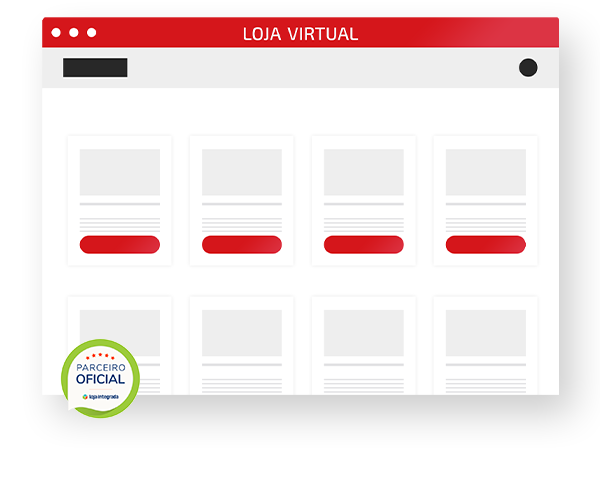
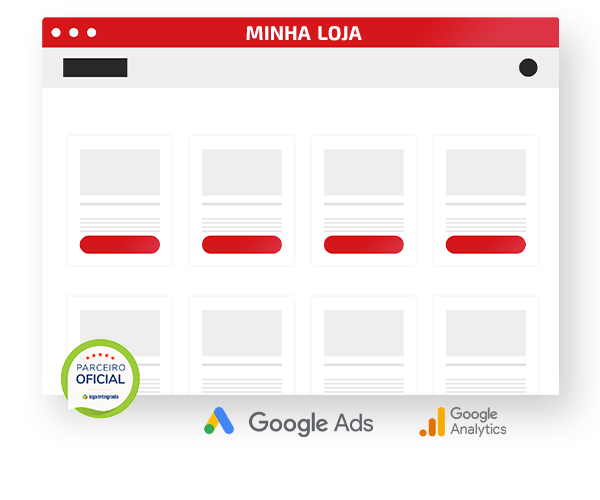
novo 03.05 20:31

diff --git a/src/app/components/pages/home-one/home-one.component.html b/src/app/components/pages/home-one/home-one.component.html
@@ -1,3 +1,4 @@
+<!--Banner Principal-->
 <div class="main-banner">
     <div class="d-table">
         <div class="d-table-cell">
@@ -5,9 +6,11 @@
                 <div class="row">
                     <div class="col-lg-7 col-md-12">
                         <div class="hero-content">
-                            <h1 style="color: #494f65;">Startup em marketing digital, consultoria e implementações
-                                em T.I.</h1>
-                            <p>Tudo o que você precisa em marketing digital e para redes sociais , design gráfico,
+                            <h1 style="color: #494f65;">Startup em <span>marketing</span> digital,
+                                <span>consultoria</span> e implementações em <span> T.I.</span>
+                            </h1>
+                            <p>Tudo o que você precisa em marketing digital e para redes sociais , design
+                                gráfico,
                                 consultoria e implementações em tecnologia para sua empresa.</p>
                             <!--<a routerLink="/contato" class="btn btn-primary">Vamos Começar</a>-->
                             <!--<a href="https://www.youtube.com/watch?v=bk7McNUjWgw" class="video-btn">Assistir<i
@@ -39,7 +42,83 @@
     <div class="circle-pattern-1"></div>
 </div>
 
-<section class="working-process-area ptb-100 bg-fbf9f8">
+<!--Loja Online-->
+<section class="analysis-area ptb-100 bg ptb-100">
+    <div class="container">
+        <div class="row align-items-center">
+            <div class="hero-image">
+                <img src="assets/img/hero-img.png" alt="hero-img">
+            </div>
+
+            <div class="col-lg-6 col-md-12 doido">
+                <div class="analysis-text">
+                    <span>Loja Online</span>
+                    <h3>Que tal vender seus <strong style="color: #d5161a;">produtos</strong> ou <strong
+                            style="color: #d5161a;">cursos</strong> online?</h3>
+                    <p>Preencha o formulário que retornamos para você de forma rápida e com uma análise grátis do seu
+                        site:</p>
+                    <ul>
+                        <li><i class="icofont-verification-check" style=" color:#e12e32; margin-right: 8px;"></i>Vamos
+                            análisar como está o
+                            design do
+                            seu site. Se está bem desenvolvido visualmente.</li>
+                        <li><i class="icofont-verification-check" style=" color:#e12e32; margin-right: 8px;"></i>Será
+                            que o seu site é uma boa experiência para o seu cliente? Um site não pode dar a
+                            impressão de que é um remendo ou que foi feito as pressas.</li>
+                        <li><i class="icofont-verification-check" style=" color:#e12e32; margin-right: 8px;"></i>Agora
+                            vamos ver se o seu site tem as informações necessárias para que o cliente entre em
+                            contato de forma prática e se tem todos os canais de contato necessários.</li>
+                        <li><i class="icofont-verification-check" style=" color:#e12e32; margin-right: 8px;"></i>Pronto,
+                            por fim faremos uma análise básica de SEO para saber se o site tem todas as
+                            informações, certificado SSL, termos de privacidade e cookies.</li>
+                    </ul>
+                </div>
+            </div>
+        </div>
+    </div>
+</section>
+
+<!--Plataformas e Linguagem-->
+<div class="partner-area ptb-100 pt-0 bg" style="border-top: none;">
+    <div class="container">
+        <div class="partner-slides owl-carousel owl-theme">
+            <div class="partner-item">
+                <a href="#"><img src="assets/img/plataforma-1.png" alt="Vtex"></a>
+            </div>
+            <div class="partner-item">
+                <a href="#"><img src="assets/img/plataforma-2.png" alt="Loja Integrada"></a>
+            </div>
+            <div class="partner-item">
+                <a href="#"><img src="assets/img/plataforma-3.png" alt="Mercado Pago"></a>
+            </div>
+            <div class="partner-item">
+                <a href="#"><img src="assets/img/plataforma-4.png" alt="Google Adwords"></a>
+            </div>
+            <div class="partner-item">
+                <a href="#"><img src="assets/img/plataforma-5.png" alt="Google Analytics"></a>
+            </div>
+            <div class="partner-item">
+                <a href="#"><img src="assets/img/plataforma-6.png" alt="WooCommerce"></a>
+            </div>
+            <div class="partner-item">
+                <a href="#"><img src="assets/img/plataforma-7.png" alt="Wordpress"></a>
+            </div>
+            <div class="partner-item">
+                <a href="#"><img src="assets/img/plataforma-8.png" alt="Elementor Pro"></a>
+            </div>
+            <div class="partner-item">
+                <a href="#"><img src="assets/img/plataforma-9.png" alt="Pay U"></a>
+            </div>
+            <div class="partner-item">
+                <a href="#"><img src="assets/img/plataforma-10.png" alt="PayPal"></a>
+            </div>
+        </div>
+    </div>
+    <!--<div class="vector"><img src="assets/img/vector-bg.png" alt="vector"></div>-->
+</div>
+
+<!--Etapas-->
+<section class="working-process-area ptb-100 bg">
     <div class="container">
         <div class="section-title">
             <span>Como funciona?</span>
@@ -88,7 +167,7 @@
     </div>
 </section>
 
-
+<!--Serviços-->
 <section class="services-area bg ptb-100">
     <div class="container">
         <div class="section-title">
@@ -173,40 +252,7 @@
     </div>
 </section>
 
-<section class="analysis-area ptb-100 bg-fbf9f8">
-    <div class="container">
-        <div class="row align-items-center">
-            <div class="hero-image">
-                <img src="assets/img/hero-img.png" alt="hero-img">
-            </div>
-
-            <div class="col-lg-6 col-md-12">
-                <div class="analysis-text">
-                    <span>Análise de Site</span>
-                    <h3>Já tem um site e precisa de análise?</h3>
-                    <p>Preencha o formulário que retornamos para você de forma rápida e com uma análise grátis do seu
-                        site:</p>
-                    <ul>
-                        <li><i class="icofont-verification-check" style=" color:#e12e32; margin-right: 8px;"></i>Vamos
-                            análisar como está o
-                            design do
-                            seu site. Se está bem desenvolvido visualmente.</li>
-                        <li><i class="icofont-verification-check" style=" color:#e12e32; margin-right: 8px;"></i>Será
-                            que o seu site é uma boa experiência para o seu cliente? Um site não pode dar a
-                            impressão de que é um remendo ou que foi feito as pressas.</li>
-                        <li><i class="icofont-verification-check" style=" color:#e12e32; margin-right: 8px;"></i>Agora
-                            vamos ver se o seu site tem as informações necessárias para que o cliente entre em
-                            contato de forma prática e se tem todos os canais de contato necessários.</li>
-                        <li><i class="icofont-verification-check" style=" color:#e12e32; margin-right: 8px;"></i>Pronto,
-                            por fim faremos uma análise básica de SEO para saber se o site tem todas as
-                            informações, certificado SSL, termos de privacidade e cookies.</li>
-                    </ul>
-                </div>
-            </div>
-        </div>
-    </div>
-</section>
-
+<!--Projetos-->
 <section class="project-area ptb-100 bg-fbf9f8">
     <div class="container">
         <div class="section-title">
@@ -363,6 +409,7 @@
     </div>
 </section>
 
+<!--Depoimentos-->
 <section class="testimonial-area ptb-100 bg-fbf9f8">
     <div class="container">
         <div class="section-title">
@@ -456,7 +503,8 @@
     <div class="vector"><img src="assets/img/vector-bg.png" alt="vector"></div>-->
 </section>
 
-<section class="funfacts-area ptb-100">
+<!--Dados-->
+<!--<section class="funfacts-area ptb-100">
     <div class="container">
         <div class="row">
             <div class="col-6 col-lg-3 col-sm-3 col-md-3">
@@ -492,8 +540,9 @@
             </div>
         </div>
     </div>
-</section>
+</section>-->
 
+<!--Tabela de Preços-->
 <section class="pricing-area ptb-100 bg-fbf9f8">
     <div class="container">
         <div class="section-title">
@@ -526,7 +575,7 @@
                                         empresas</p>
                                 </li>
                                 <li>
-                                    <p><i class="icofont-close"></i>Entregamos em até 30 dias</p>
+                                    <p><i class="icofont-close"></i><s> Entregamos em até 30 dias</s></p>
                                 </li>
                                 <li>
                                     <p><i class="icofont-verification-check"></i> Botão do WhatsApp</p>
@@ -581,7 +630,7 @@
                                     </p>
                                 </li>
                                 <li>
-                                    <p><i class="icofont-close"></i>02 banners promocionais</p>
+                                    <p><i class="icofont-close"></i><s>02 banners promocionais</s></p>
                                 </li>
                             </ul>
                             <a href="#" class="btn btn-primary">Saiba Mais +</a>
@@ -722,7 +771,7 @@
     <!--<div class="rocket fadeInUp wow slow"><img src="assets/img/rocket.png" alt="rocket"></div>-->
 </section>
 
-
+<!--Parceiros e CLientes-->
 <div class="partner-area ptb-100 pt-0 bg-fbf9f8" style="border-top: none;">
     <div class="container">
         <div class="partner-slides owl-carousel owl-theme">
@@ -767,6 +816,7 @@
     <!--<div class="vector"><img src="assets/img/vector-bg.png" alt="vector"></div>-->
 </div>
 
+<!--Blog-->
 <section class="blog-area ptb-100">
     <div class="container">
         <div class="section-title">
@@ -834,4 +884,5 @@
     </div>
 </section>
 
+<!--Newsletter-->
 <app-subscribe></app-subscribe>

diff --git a/src/assets/css/style.scss b/src/assets/css/style.scss
@@ -144,6 +144,29 @@ p {
     ;
 }
 
+//////* Efeito Seleção de texto */
+//////
+h1::selection,
+h2::selection,
+h3::selection,
+h4::selection,
+h5::selection,
+h6::selection,
+h1::selection,
+h2::selection,
+h3::selection,
+h4::selection,
+h5::selection,
+h6::selection,
+a::selection,
+li::selection,
+ul::selection,
+span::selection,
+p::selection {
+    color: #ffffff;
+    background-color: #494f65;
+}
+
 .bg-fbf9f8 {
     background: #f9f9f9;
     border-top: 1px solid #ebebeb;
@@ -155,7 +178,7 @@ p {
 
 .ptb-100 {
     padding: {
-        top: 100px;
+        top: 60px;
         bottom: 100px;
     }
 
@@ -1100,7 +1123,7 @@ Main Banner CSS
 
 .hero-image {
     position: absolute;
-    right: -100px;
+    /*right: -100px;*/
     /*bottom: 30px;*/
     width: 725px;
 }
@@ -1828,6 +1851,7 @@ Analysis CSS
 .analysis-area {
     position: relative;
     overflow: hidden;
+    padding-bottom: 60px !important;
 }
 
 .analysis-form {
@@ -2258,14 +2282,14 @@ Working Process CSS
     }
 
     .icon {
-        background: #f4f6fd;
+        background: #d5161a;
         display: inline-block;
         width: 80px;
         height: 80px;
         position: relative;
         z-index: 1;
         font-size: 40px;
-        color: $template_color;
+        color: $white_color;
         line-height: 80px;
         border-radius: 100px;
         /*-webkit-clip-path: polygon(30% 0%, 70% 0%, 100% 30%, 100% 70%, 70% 100%, 30% 100%, 0% 70%, 0% 30%);
@@ -3090,6 +3114,7 @@ Partner CSS
     &.owl-theme {
         .owl-dots {
             margin-top: 40px !important;
+            display: none;
         }
     }
 }
@@ -5586,4 +5611,27 @@ Go Top CSS
         color: $white_color;
         background: $template_color;
     }
+}
+
+////////*Ajuste Hero Image - Loja Online*//////
+@media (min-width: 992px) {
+    .doido {
+        right: -560px;
+    }
+}
+
+/////////*barra rolagem navegador*////////////
+
+::-webkit-scrollbar {
+    width: 8px;
+    height: 8px;
+}
+
+::-webkit-scrollbar-track {
+    background: #f3f5fe;
+}
+
+::-webkit-scrollbar-thumb {
+    background: #dc3545;
+    border-radius: 100px;
 }
